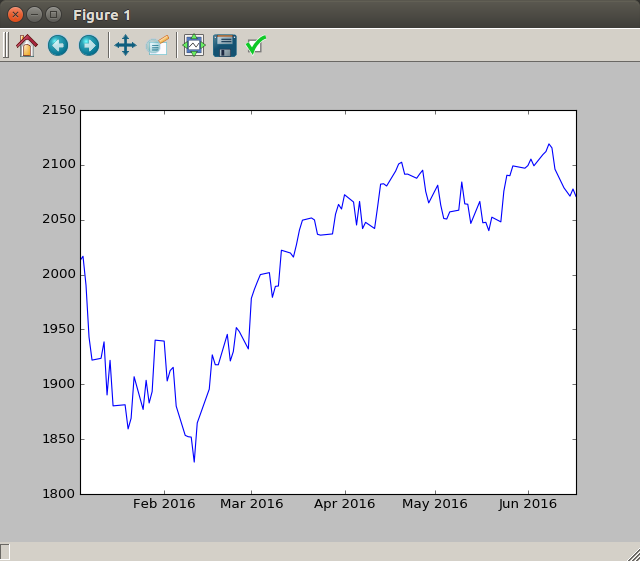
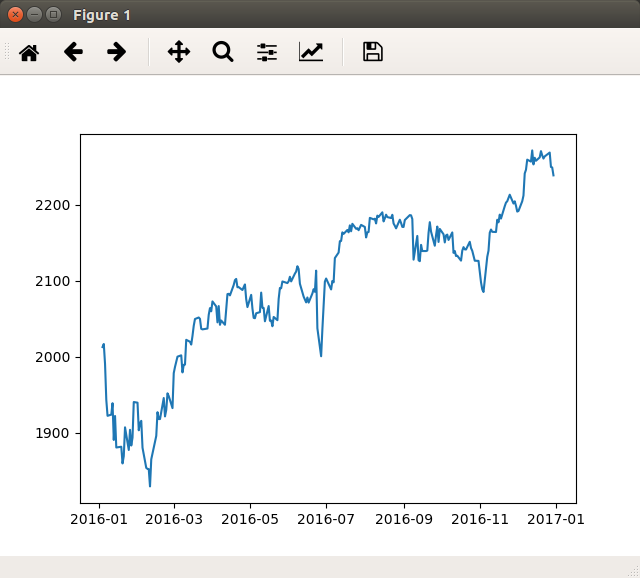
more

diff --git a/public/class01/ts1.py b/public/class01/ts1.py
@@ -1,21 +1,23 @@
-# ts1.py
-
-# This script should plot a time series of prices.
-
-import pandas as pd
-import datetime
-
-my_df    = pd.read_csv('http://www.spy611.com/csv/allpredictions.csv')
-sp0_pred = my_df['cdate'] > '2016'
-sp0_df   = my_df[sp0_pred]
-cdate_sr = sp0_df['cdate']
-cp_sr    = sp0_df['cp']
-  
-# matplotlib likes dates:
-cdate_l = [datetime.datetime.strptime(row, "%Y-%m-%d") for row in cdate_sr]
+"""
+ts1.py
+This script should plot a time series of prices.
+"""
 
 import matplotlib.pyplot as plt
-# cdate_l holds x values, cp_sr: y values
-plt.plot(cdate_l, cp_sr)
+import pandas            as pd
+
+my_df    = pd.read_csv('http://www.spy611.com/csv/allpredictions.csv')
+sp0_sr   = my_df.cdate > '2016'
+sp1_sr   = my_df.cdate < '2017'
+sp2_sr   = (sp0_sr & sp1_sr)
+sp0_df   = my_df[sp2_sr]
+cdate_sr = sp0_df.cdate
+cp_sr    = sp0_df.cp
+  
+# matplotlib likes datetime:
+cdate_dt_sr = pd.to_datetime(cdate_sr)
+
+# cdate_dt_sr holds x values, cp_sr: y values
+plt.plot(cdate_dt_sr, cp_sr)
 plt.show()
 'bye'
